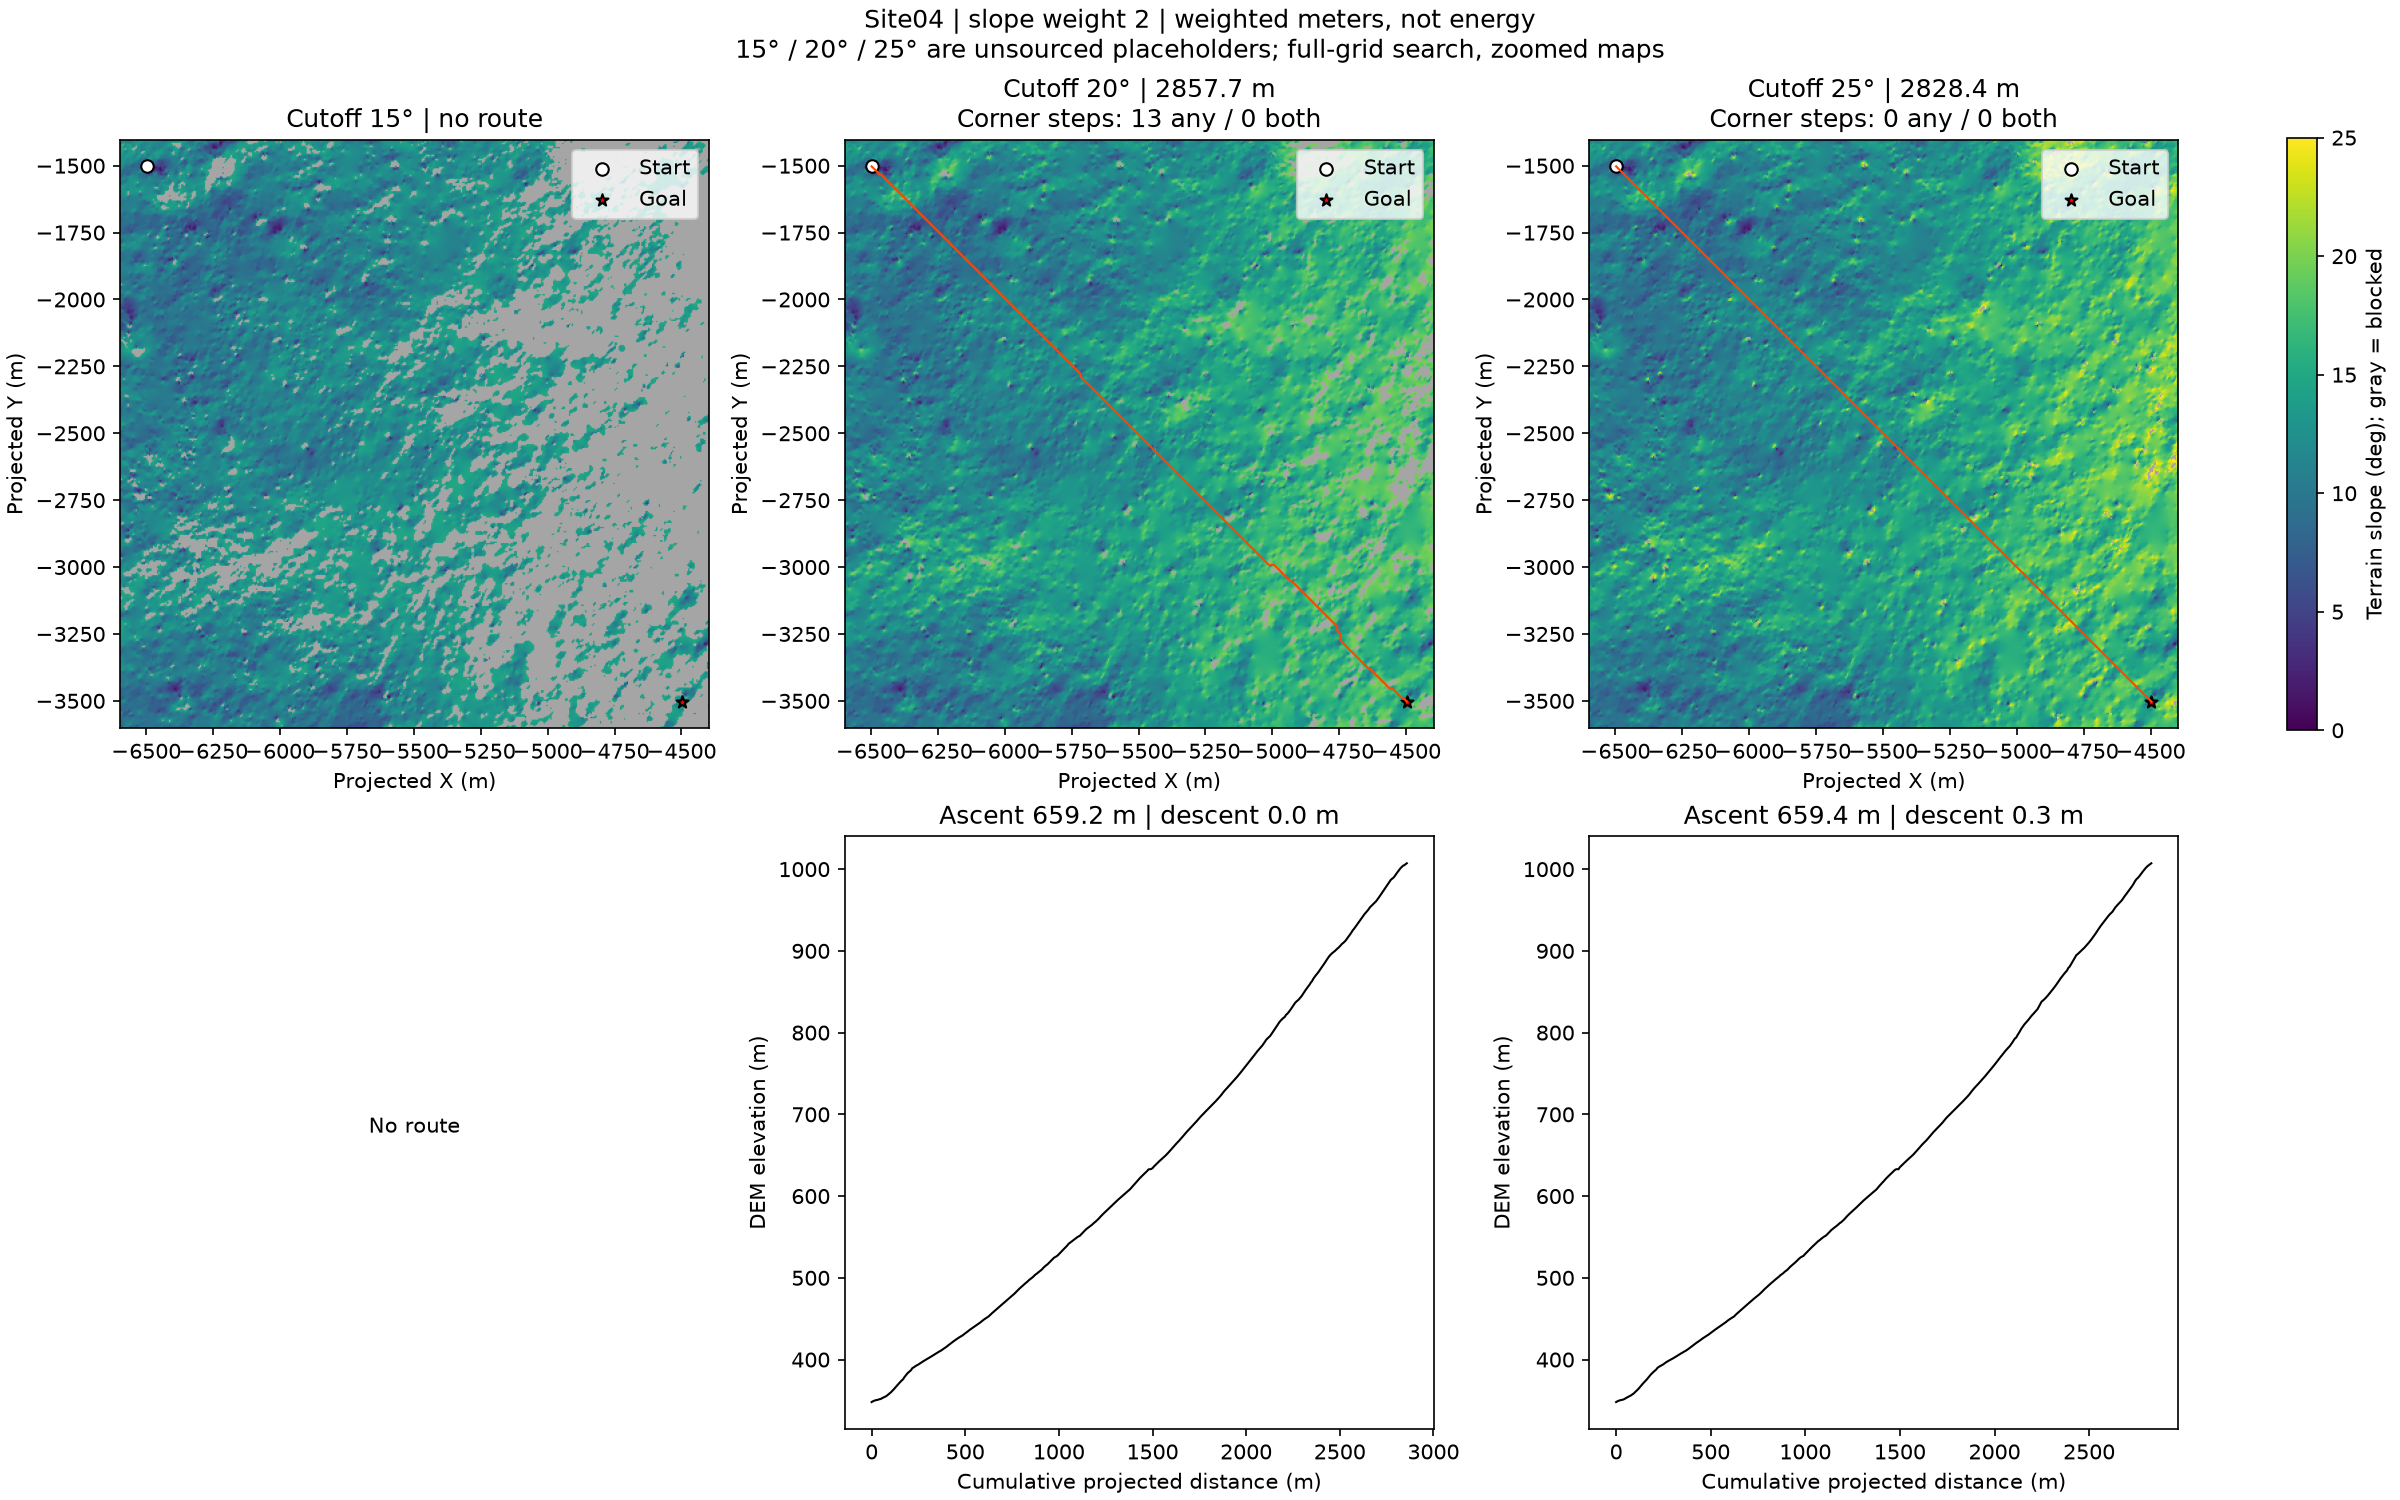
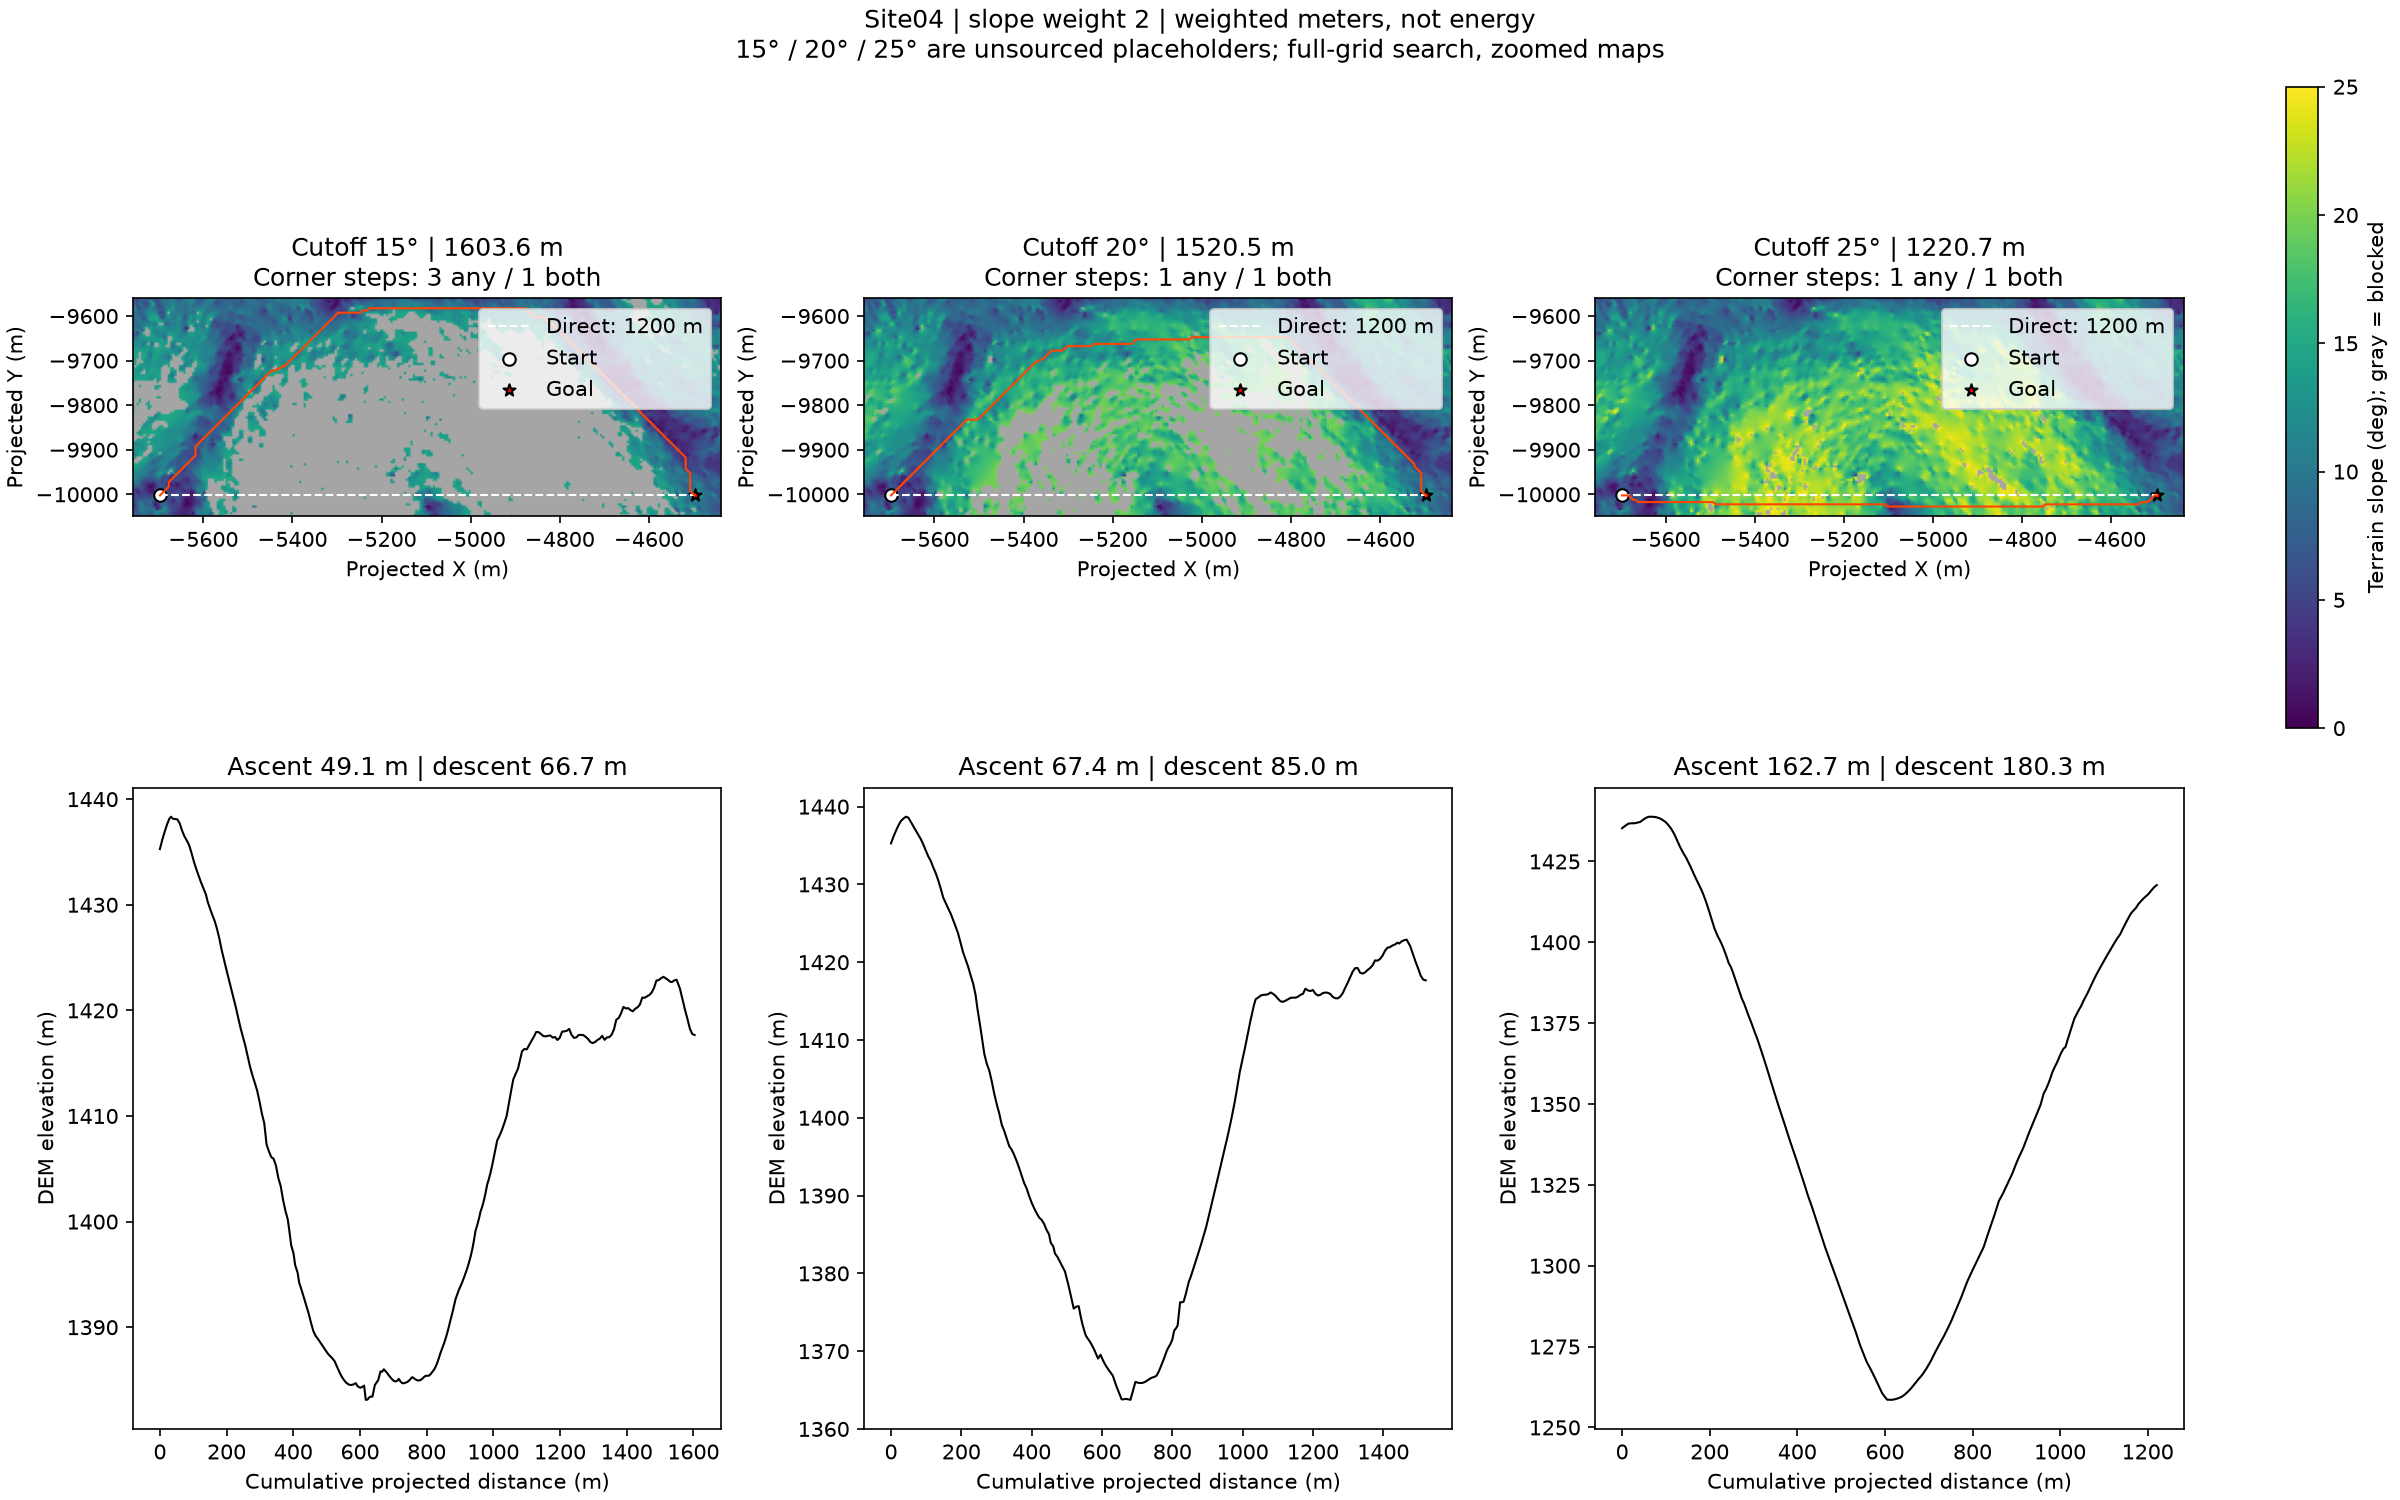
plan: demonstrate routing around steep terrain

diff --git a/scripts/plan_site04.py b/scripts/plan_site04.py
@@ -1,8 +1,8 @@
 """Run the unsourced 15/20/25-degree cutoff sweep on the full Site04 grid.
 
 From the repository root, for example:
-python -m scripts.plan_site04 --start-xy-m -6497.5 -1502.5 \
-    --goal-xy-m -4497.5 -3502.5 --slope-weight 2
+python -m scripts.plan_site04 --start-xy-m -5697.5 -10002.5 \
+    --goal-xy-m -4497.5 -10002.5 --slope-weight 2
 These endpoints are demonstration samples, not operational EVA locations.
 """
 
@@ -68,11 +68,21 @@ def plan_site04(
                    if key not in ("route_rc", "route_xy_m")}
         summary.update(slope_limit_deg=slope_limit_deg, slope_weight=slope_weight,
                        cost_surface_seconds=cost_seconds, routing_seconds=route_seconds)
+        # Compare route length with the Euclidean separation of its snapped
+        # pixel-center endpoints, in the same projected-meter convention.
+        start_center_m = np.asarray(result["snapped_start_xy_m"])
+        goal_center_m = np.asarray(result["snapped_goal_xy_m"])
+        separation_m = goal_center_m - start_center_m
+        straight_length_m = float(np.hypot(*separation_m))
+        summary["straight_line_distance_m"] = straight_length_m
         axis, profile = axes[:, column]
         artist = axis.imshow(
             np.ma.masked_where(~np.isfinite(weights), slope_deg),
             extent=extent_m, origin="upper", cmap=cmap, vmin=0, vmax=25,
         )
+        axis.plot([start_center_m[0], goal_center_m[0]],
+                  [start_center_m[1], goal_center_m[1]], "w--", linewidth=1,
+                  label=f"Direct: {straight_length_m:.0f} m")
         axis.scatter(*start_xy_m, marker="o", color="white", edgecolor="black", label="Start")
         axis.scatter(*goal_xy_m, marker="*", color="red", edgecolor="black", label="Goal")
         axis.set(xlabel="Projected X (m)", ylabel="Projected Y (m)")
